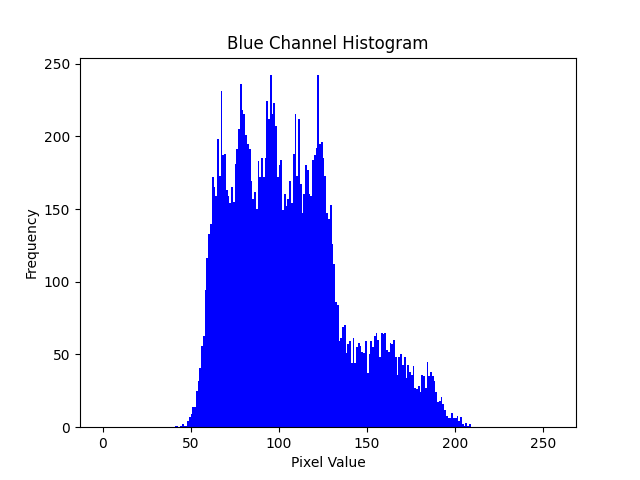
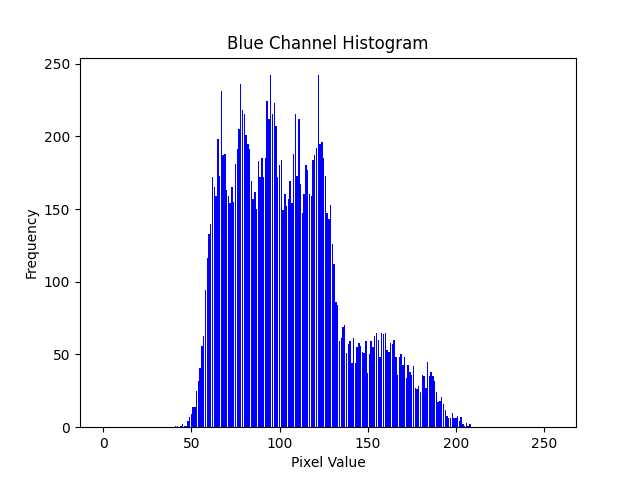
Manual histogram

diff --git a/components/functions/histogram.py b/components/functions/histogram.py
@@ -3,7 +3,33 @@ import numpy as np
 import matplotlib.pyplot as plt
 
 
-def calculate_histogram(image_path, channel="gray", save_path="histogram.png"):
+def calculate_manual_histogram(image_array, channel=None):
+    """
+    Calculate a histogram for a grayscale or single channel of an RGB image.
+
+    Parameters:
+        image_array (numpy.ndarray): Image array (grayscale or RGB).
+        channel (int or None): Index of the channel to process (0: Red, 1: Green, 2: Blue).
+                               If None, processes grayscale.
+
+    Returns:
+        numpy.ndarray: Histogram array with 256 bins.
+    """
+    histogram = np.zeros(256, dtype=int)
+
+    if channel is None:
+        # Grayscale image
+        for pixel in image_array.flatten():
+            histogram[pixel] += 1
+    else:
+        # Single channel of RGB image
+        for pixel in image_array[:, :, channel].flatten():
+            histogram[pixel] += 1
+
+    return histogram
+
+
+def calculate_save_histogram(image_path, channel="gray", save_path="histogram.png"):
     """
     Calculate and save the histogram of the specified channel from the given image.
 
@@ -18,10 +44,11 @@ def calculate_histogram(image_path, channel="gray", save_path="histogram.png"):
     if channel == "gray":
         # Convert to grayscale if required
         gray_image = image.convert("L")
-        pixel_values = np.array(gray_image).flatten()
+        pixel_values = np.array(gray_image)
+        histogram = calculate_manual_histogram(pixel_values)
 
         # Plot the histogram for grayscale
-        plt.hist(pixel_values, bins=256, range=(0, 256), color='gray')
+        plt.bar(range(256), histogram, color='gray')
         plt.title("Grayscale Histogram")
         plt.xlabel("Pixel Value")
         plt.ylabel("Frequency")
@@ -35,10 +62,10 @@ def calculate_histogram(image_path, channel="gray", save_path="histogram.png"):
         if channel not in channel_map:
             raise ValueError(f"Invalid channel '{channel}'. Choose from 'red', 'green', 'blue', or 'gray'.")
 
-        channel_values = pixel_values[:, :, channel_map[channel]].flatten()
+        histogram = calculate_manual_histogram(pixel_values, channel_map[channel])
 
         # Plot the histogram for the specified channel
-        plt.hist(channel_values, bins=256, range=(0, 256), color=channel)
+        plt.bar(range(256), histogram, color=channel)
         plt.title(f"{channel.capitalize()} Channel Histogram")
         plt.xlabel("Pixel Value")
         plt.ylabel("Frequency")

diff --git a/program.py b/program.py
@@ -5,7 +5,7 @@ import sys
 from components.functions.elementary import doBrightness, doContrast, doNegative
 from components.functions.geometric import doHorizontalFlip, doVerticalFlip, doDiagonalFlip, doShrink, doEnlarge
 from components.functions.noise import doMedianFilter, doGeometricMeanFilter
-from components.functions.histogram import calculate_histogram
+from components.functions.histogram import calculate_save_histogram
 from components.functions.filtration import universal_filter, optimized_slowpass_filter
 from components.functions.rayleigh import apply_rayleigh_pdf
 from components.functions.laplacian import ll_operator
@@ -110,7 +110,7 @@ elif command == '--histogram':
         print("Invalid channel! Choose from 'gray', 'red', 'green', or 'blue'.")
         sys.exit()
     save_path = "histogram_" + param + ".png"
-    calculate_histogram(image_path, channel=param, save_path=save_path)
+    calculate_save_histogram(image_path, channel=param, save_path=save_path)
     print(f"Histogram successfully saved as {save_path}!")
     sys.exit()
 elif command == '--rayleigh':
